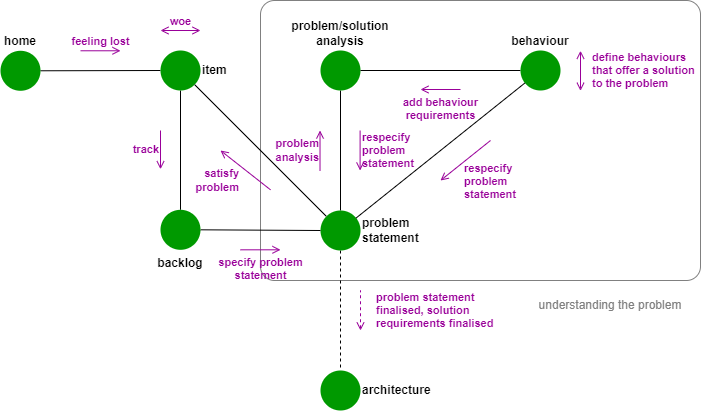
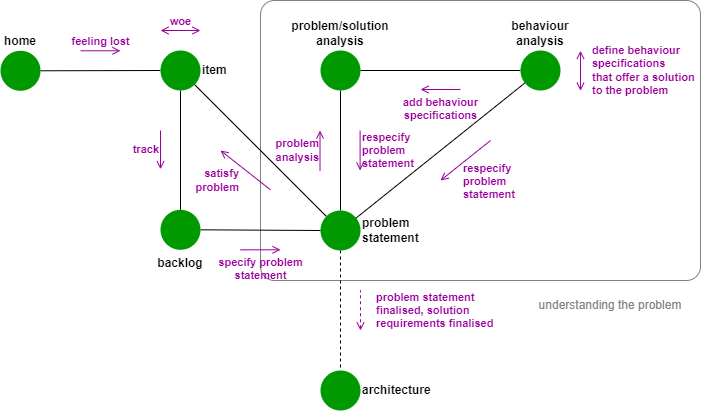
doc: specify behaviour analysis process

diff --git a/docs/searchindex.js b/docs/searchindex.js
@@ -1,1 +1,1 @@
-Search.setIndex({"docnames": ["index", "src/contributing", "src/contributing/authors", "src/contributing/changelog", "src/contributing/configuration", "src/contributing/contributing", "src/contributing/development", "src/contributing/installation", "src/contributing/license", "src/contributing/usage", "src/literature", "src/manifesto", "src/manifesto/manifesto", "src/pathos", "src/pathos/pathos"], "filenames": ["index.rst", "src/contributing.rst", "src/contributing/authors.rst", "src/contributing/changelog.rst", "src/contributing/configuration.rst", "src/contributing/contributing.rst", "src/contributing/development.rst", "src/contributing/installation.rst", "src/contributing/license.rst", "src/contributing/usage.rst", "src/literature.rst", "src/manifesto.rst", "src/manifesto/manifesto.rst", "src/pathos.rst", "src/pathos/pathos.rst"], "titles": ["Lifespline Agile", "Contributing", "Authors", "Changelog", "Configuration", "Contributing", "Development", "Installation", "License", "Usage", "Literature", "Manifesto", "The Manifesto", "Pathos", "Pathos"], "terms": {"i": [0, 2, 12, 14], "an": 0, "manifesto": 0, "aim": 0, "provid": [0, 12], "complet": [0, 12], "framework": [0, 12], "develop": [0, 1, 12], "conduct": 0, "its": 0, "life": 0, "contribut": 0, "patho": 0, "literatur": 0, "pleas": 1, "read": 1, "through": [1, 12], "section": 1, "below": 1, "understand": [1, 12], "how": [1, 3, 4, 5, 7, 9], "lifesplin": [1, 2, 12, 14], "agil": 1, "instal": 1, "configur": 1, "usag": 1, "changelog": 1, "licens": 1, "author": 1, "The": [2, 11], "project": [2, 8], "": [2, 8, 12], "organ": 2, "owner": 2, "diogobaltazar": 2, "increas": 3, "sampl": [3, 4, 5, 7, 9, 12], "todo": [3, 4, 5, 7, 8, 9, 12], "sphinx": 6, "src": 6, "static": 6, "index": 6, "rst": 6, "file": 6, "nojekyl": 6, "build": 6, "ar": [6, 12], "contain": 6, "img": 6, "about": [8, 12], "md": 8, "us": 9, "sequenti": 12, "iter": 12, "state": 12, "sleep": 12, "morn": 12, "prepar": 12, "even": 12, "start": 12, "envis": 12, "what": 12, "thi": 12, "can": 12, "achiev": 12, "consult": 12, "network": 12, "graph": 12, "context": 12, "detail": 12, "schedul": 12, "mileston": 12, "know": 12, "proce": 12, "full": 12, "focu": 12, "occur": 12, "subtask": 12, "0": 12, "8": 12, "them": 12, "must": 12, "log": 12, "so": 12, "thei": 12, "practic": 12, "upon": 12, "later": 12, "keep": 12, "track": 12, "ipad": 12, "note": 12, "prevent": 12, "loss": 12, "when": 12, "task": 12, "finish": 12, "you": 12, "structur": 12, "have": 12, "been": 12, "one": 12, "ha": 12, "new": 12, "commenc": 12, "befor": 12, "begin": 12, "step": 12, "veri": 12, "import": 12, "becaus": 12, "often": 12, "requir": 12, "specifi": 12, "suffici": 12, "order": 12, "tackl": 12, "item": 12, "add": 12, "which": 12, "seem": 12, "best": 12, "describ": 12, "without": 12, "ani": 12, "consider": 12, "might": 12, "solv": 12, "set": 12, "each": 12, "map": 12, "featur": 12, "satisfi": 12, "analys": 12, "within": 12, "possibl": 12, "we": 12, "assum": 12, "onli": 12, "whithin": 12, "output": 12, "discuss": 12, "defin": 12, "typic": 12, "translat": 12, "These": 12, "show": 12, "should": 12, "also": 12, "includ": 12, "verif": 12, "test": 12, "written": 12, "mid": 12, "level": 12, "languag": 12, "autom": 12, "purpos": 12, "aren": 12, "t": 12, "all": 12, "necessari": 12, "some": 12, "nice": 12, "crucial": 12, "identifi": 12, "closest": 12, "valu": 12, "throughput": 12, "alwai": 12, "high": 12, "re": 12, "specif": 12, "remov": 12, "move": 12, "don": 12, "user": 12, "stori": 12, "finalis": 12, "tecnhic": 12, "platform": 14, "monitor": 14, "both": 14, "resourc": 14, "process": 14, "perform": 14, "statu": 14}, "objects": {}, "objtypes": {}, "objnames": {}, "titleterms": {"lifesplin": 0, "agil": 0, "content": [0, 1, 11, 13], "contribut": [1, 5], "author": 2, "changelog": 3, "configur": 4, "develop": 6, "doc": 6, "structur": 6, "imag": 6, "task": 6, "runner": 6, "instal": 7, "licens": 8, "usag": 9, "literatur": 10, "manifesto": [11, 12], "The": 12, "main": 12, "flow": 12, "engag": 12, "version": 12, "control": 12, "reduc": 12, "from": 12, "imaginari": 12, "To": 12, "real": 12, "group": 12, "And": 12, "individu": 12, "product": 12, "variat": 12, "problem": 12, "analysi": 12, "backlog": 12, "statement": 12, "solut": 12, "behaviour": 12, "architectur": 12, "patho": [13, 14]}, "envversion": {"sphinx.domains.c": 2, "sphinx.domains.changeset": 1, "sphinx.domains.citation": 1, "sphinx.domains.cpp": 8, "sphinx.domains.index": 1, "sphinx.domains.javascript": 2, "sphinx.domains.math": 2, "sphinx.domains.python": 3, "sphinx.domains.rst": 2, "sphinx.domains.std": 2, "sphinx": 57}, "alltitles": {"Lifespline Agile": [[0, "lifespline-agile"]], "Contents:": [[0, null], [1, null], [11, null], [13, null]], "Contributing": [[1, "contributing"], [5, "contributing"]], "Authors": [[2, "authors"]], "Changelog": [[3, "changelog"]], "Configuration": [[4, "configuration"]], "Development": [[6, "development"]], "Docs Structure": [[6, "docs-structure"]], "Images": [[6, "images"]], "Task Runner": [[6, "task-runner"]], "Installation": [[7, "installation"]], "License": [[8, "license"]], "Usage": [[9, "usage"]], "Literature": [[10, "literature"]], "Manifesto": [[11, "manifesto"]], "The Manifesto": [[12, "the-manifesto"]], "Main Flow": [[12, "main-flow"]], "Engage Flow": [[12, "engage-flow"]], "Versioning and Control Flow": [[12, "versioning-and-control-flow"]], "Reducing From Imaginary To Real": [[12, "reducing-from-imaginary-to-real"]], "Group And Individual Productivity Variation": [[12, "group-and-individual-productivity-variation"]], "Problem Analysis Flow": [[12, "problem-analysis-flow"]], "Backlog": [[12, "id4"]], "Problem Statement": [[12, "problem-statement"]], "Problem/Solution Analysis": [[12, "problem-solution-analysis"]], "Behaviour": [[12, "behaviour"]], "Architecture": [[12, "architecture"]], "Pathos": [[13, "pathos"], [14, "pathos"]]}, "indexentries": {}})
+Search.setIndex({"docnames": ["index", "src/contributing", "src/contributing/authors", "src/contributing/changelog", "src/contributing/configuration", "src/contributing/contributing", "src/contributing/development", "src/contributing/installation", "src/contributing/license", "src/contributing/usage", "src/literature", "src/manifesto", "src/manifesto/manifesto", "src/pathos", "src/pathos/pathos"], "filenames": ["index.rst", "src/contributing.rst", "src/contributing/authors.rst", "src/contributing/changelog.rst", "src/contributing/configuration.rst", "src/contributing/contributing.rst", "src/contributing/development.rst", "src/contributing/installation.rst", "src/contributing/license.rst", "src/contributing/usage.rst", "src/literature.rst", "src/manifesto.rst", "src/manifesto/manifesto.rst", "src/pathos.rst", "src/pathos/pathos.rst"], "titles": ["Lifespline Agile", "Contributing", "Authors", "Changelog", "Configuration", "Contributing", "Development", "Installation", "License", "Usage", "Literature", "Manifesto", "The Manifesto", "Pathos", "Pathos"], "terms": {"i": [0, 2, 12, 14], "an": [0, 12], "manifesto": 0, "aim": 0, "provid": 0, "complet": [0, 12], "framework": [0, 12], "develop": [0, 1, 12], "conduct": 0, "its": 0, "life": 0, "contribut": 0, "patho": 0, "literatur": 0, "pleas": 1, "read": 1, "through": [1, 12], "section": 1, "below": 1, "understand": [1, 12], "how": [1, 3, 4, 5, 7, 9, 12], "lifesplin": [1, 2, 12, 14], "agil": 1, "instal": 1, "configur": 1, "usag": 1, "changelog": 1, "licens": 1, "author": 1, "The": [2, 11], "project": [2, 8], "": [2, 8, 12], "organ": 2, "owner": 2, "diogobaltazar": 2, "increas": 3, "sampl": [3, 4, 5, 7, 9, 12], "todo": [3, 4, 5, 7, 8, 9, 12], "sphinx": 6, "src": 6, "static": 6, "index": 6, "rst": 6, "file": 6, "nojekyl": 6, "build": 6, "ar": [6, 12], "contain": 6, "img": 6, "about": [8, 12], "md": 8, "us": 9, "sequenti": 12, "iter": 12, "state": 12, "sleep": 12, "morn": 12, "prepar": 12, "even": 12, "start": 12, "envis": 12, "what": 12, "thi": 12, "can": 12, "achiev": 12, "consult": 12, "network": 12, "graph": 12, "context": 12, "detail": 12, "schedul": 12, "mileston": 12, "know": 12, "proce": 12, "full": 12, "focu": 12, "occur": 12, "subtask": 12, "0": 12, "8": 12, "them": 12, "must": 12, "log": 12, "so": 12, "thei": 12, "practic": 12, "upon": 12, "later": 12, "keep": 12, "track": 12, "ipad": 12, "note": 12, "prevent": 12, "loss": 12, "when": 12, "task": 12, "finish": 12, "you": 12, "structur": 12, "have": 12, "been": 12, "one": 12, "ha": 12, "new": 12, "commenc": 12, "befor": 12, "begin": 12, "step": 12, "veri": 12, "import": 12, "becaus": 12, "often": 12, "requir": 12, "specifi": 12, "suffici": 12, "order": 12, "tackl": 12, "item": 12, "add": 12, "which": 12, "seem": 12, "best": 12, "describ": 12, "without": 12, "ani": 12, "consider": 12, "might": 12, "solv": 12, "set": 12, "each": 12, "map": 12, "featur": 12, "satisfi": 12, "If": 12, "consist": 12, "multipl": 12, "some": 12, "underli": 12, "analyz": 12, "within": 12, "possibl": 12, "all": 12, "we": 12, "assum": 12, "onli": 12, "output": 12, "gener": 12, "1": 12, "m": 12, "It": 12, "try": 12, "discuss": 12, "treat": 12, "instanti": 12, "NOT": 12, "technic": 12, "mere": 12, "conceptu": 12, "exist": 12, "level": 12, "e": 12, "g": 12, "concept": 12, "render": 12, "pyhon": 12, "lib": 12, "jupyt": 12, "notebook": 12, "With": 12, "spec": 12, "n": 12, "p": 12, "specif": 12, "correspond": 12, "verif": 12, "test": 12, "should": 12, "written": 12, "mid": 12, "languag": 12, "autom": 12, "purpos": 12, "typic": 12, "aren": 12, "t": 12, "necessari": 12, "crucial": 12, "identifi": 12, "closest": 12, "valu": 12, "throughput": 12, "alwai": 12, "high": 12, "unnecessari": 12, "point": 12, "time": 12, "user": 12, "stori": 12, "think": 12, "implement": 12, "overal": 12, "ensur": 12, "chang": 12, "dramat": 12, "unforeseen": 12, "howev": 12, "bound": 12, "happen": 12, "re": 12, "minim": 12, "impact": 12, "final": 12, "analys": 12, "tecnhic": 12, "finalis": 12, "platform": 14, "monitor": 14, "both": 14, "resourc": 14, "process": 14, "perform": 14, "statu": 14}, "objects": {}, "objtypes": {}, "objnames": {}, "titleterms": {"lifesplin": 0, "agil": 0, "content": [0, 1, 11, 13], "contribut": [1, 5], "author": 2, "changelog": 3, "configur": 4, "develop": 6, "doc": 6, "structur": 6, "imag": 6, "task": 6, "runner": 6, "instal": 7, "licens": 8, "usag": 9, "literatur": 10, "manifesto": [11, 12], "The": 12, "main": 12, "flow": 12, "engag": 12, "version": 12, "control": 12, "reduc": 12, "from": 12, "imaginari": 12, "To": 12, "real": 12, "group": 12, "And": 12, "individu": 12, "product": 12, "variat": 12, "problem": 12, "analysi": 12, "backlog": 12, "statement": 12, "solut": 12, "behaviour": 12, "architectur": 12, "patho": [13, 14]}, "envversion": {"sphinx.domains.c": 2, "sphinx.domains.changeset": 1, "sphinx.domains.citation": 1, "sphinx.domains.cpp": 8, "sphinx.domains.index": 1, "sphinx.domains.javascript": 2, "sphinx.domains.math": 2, "sphinx.domains.python": 3, "sphinx.domains.rst": 2, "sphinx.domains.std": 2, "sphinx": 57}, "alltitles": {"Lifespline Agile": [[0, "lifespline-agile"]], "Contents:": [[0, null], [1, null], [11, null], [13, null]], "Contributing": [[1, "contributing"], [5, "contributing"]], "Authors": [[2, "authors"]], "Changelog": [[3, "changelog"]], "Configuration": [[4, "configuration"]], "Development": [[6, "development"]], "Docs Structure": [[6, "docs-structure"]], "Images": [[6, "images"]], "Task Runner": [[6, "task-runner"]], "Installation": [[7, "installation"]], "License": [[8, "license"]], "Usage": [[9, "usage"]], "Literature": [[10, "literature"]], "Manifesto": [[11, "manifesto"]], "The Manifesto": [[12, "the-manifesto"]], "Main Flow": [[12, "main-flow"]], "Engage Flow": [[12, "engage-flow"]], "Versioning and Control Flow": [[12, "versioning-and-control-flow"]], "Reducing From Imaginary To Real": [[12, "reducing-from-imaginary-to-real"]], "Group And Individual Productivity Variation": [[12, "group-and-individual-productivity-variation"]], "Problem Analysis Flow": [[12, "problem-analysis-flow"]], "Backlog": [[12, "id4"]], "Problem Statement": [[12, "problem-statement"]], "Problem/Solution Analysis": [[12, "problem-solution-analysis"]], "Behaviour": [[12, "behaviour"]], "Architecture": [[12, "architecture"]], "Pathos": [[13, "pathos"], [14, "pathos"]]}, "indexentries": {}})

diff --git a/docs/src/manifesto/manifesto.html b/docs/src/manifesto/manifesto.html
@@ -250,14 +250,47 @@
 </section>
 <section id="problem-solution-analysis">
 <span id="prob-analysis"></span><h3>Problem/Solution Analysis<a class="headerlink" href="#problem-solution-analysis" title="Permalink to this heading">#</a></h3>
-<p>Analyse the problem from within the framework of a possible solution (we assume <strong>a problem can only be analysed from whithin the framework of a possible solution</strong>). The analysis outputs problem statement behaviours that satisfy the problem statements.</p>
+<p>If the <a class="reference internal" href="#prob-statement"><span class="std std-ref">problem statement</span></a> consists of multiple problem statements, <strong>there is some underlying problem that can be analyzed from within the framework of a possible solution to all the problem statements</strong> (we assume a problem can only be analyzed from within the framework of a possible solution). The analysis outputs a generic solution that will satisfy all the problem statement.</p>
+<div class="highlight-rst notranslate"><div class="highlight"><pre><span></span>Problem Statement
+┣╸ &lt;Problem Statement 1&gt;
+┣╸ ...
+┗╸ &lt;Problem Statement M&gt;
+</pre></div>
+</div>
+<div class="admonition note">
+<p class="admonition-title">Note</p>
+<p>It’s important to try to discuss a solution to all the problem statements so that each problem statement is treated as an instantiation of a generic problem.</p>
+</div>
+<div class="admonition note">
+<p class="admonition-title">Note</p>
+<p>The solution <strong>MUST NOT</strong> be technical but merely conceptual. The problem statement exists only in the conceptual level (e.g.: a network graph to map a backlog is a concept, rendering the network graph with a pyhon lib in a jupyter notebook is a technical detail).</p>
+</div>
 </section>
 <section id="behaviour">
 <span id="id6"></span><h3>Behaviour<a class="headerlink" href="#behaviour" title="Permalink to this heading">#</a></h3>
-<p>Discuss what defines a behaviour that provides a solution to the <a class="reference internal" href="#prob-statement"><span class="std std-ref">problem statements</span></a>. This typically requires that the problem statement translates to <strong>behaviour requirements</strong> in the <a class="reference internal" href="#prob-analysis"><span class="std std-ref">problem analysis</span></a>. These requirements are <strong>behaviours</strong> that the solution must show. The requirements should also include <strong>behaviour verification tests</strong>. The behaviours and the behaviour verification tests should be written in a mid-level language for automation purposes.</p>
-<p>Typically the behaviours aren’t all necessary, some of them are nice-to-haves, it’s crucial to identify which behaviours are closest to the problem statement so that the <strong>value throughput</strong> is always high.</p>
-<p>When you’re specifying the problem statements behaviours, iterate through the specification and remove/move behaviours that don’t map to the problem statement specifically. Each problem statement maps to a <code class="docutils literal notranslate"><span class="pre">product</span> <span class="pre">feature</span></code> and each behaviour maps to a <code class="docutils literal notranslate"><span class="pre">product</span> <span class="pre">feature</span> <span class="pre">behaviour</span></code> or a <code class="docutils literal notranslate"><span class="pre">user</span> <span class="pre">story</span></code>.</p>
-<p>Having finalised all the problem statements’ behaviours it is possible to analyse the <a class="reference internal" href="#architecture"><span class="std std-ref">architecture for a tecnhical solution</span></a>.</p>
+<p>With the conceptual solution from the <a class="reference internal" href="#prob-analysis"><span class="std std-ref">problem analysis</span></a>, specify the behaviours that will satisfy each problem statement.</p>
+<div class="highlight-rst notranslate"><div class="highlight"><pre><span></span>Behaviours: &lt;Problem Statement 1&gt;
+┣╸ BEHAVIOUR 1: SPEC
+┣╸ ...
+┗╸ BEHAVIOUR N: SPEC
+
+<span class="cp">...</span>
+
+Behaviours: &lt;Problem Statement M&gt;
+┣╸ BEHAVIOUR 1: SPEC
+┣╸ ...
+┗╸ BEHAVIOUR P: SPEC
+</pre></div>
+</div>
+<p>The problem statement maps to <strong>behaviour specifications</strong> and the corresponding <strong>behaviour verification tests</strong>. The behaviours and the behaviour verification tests should be written in a mid-level language for automation purposes.</p>
+<p>Typically the behaviour specifications aren’t all necessary, it’s crucial to identify which behaviours are closest to the problem statement so that the <strong>value throughput</strong> is always high. Add the unnecessary behaviour specs to tackle them at a later point in time.</p>
+<p>Each problem statement maps to a <code class="docutils literal notranslate"><span class="pre">product</span> <span class="pre">feature</span></code> and each behaviour maps to a <code class="docutils literal notranslate"><span class="pre">product</span> <span class="pre">feature</span> <span class="pre">behaviour</span></code> or a <code class="docutils literal notranslate"><span class="pre">user</span> <span class="pre">story</span></code>.</p>
+<div class="admonition note">
+<p class="admonition-title">Note</p>
+<p>It’s important to finish the behaviour specification for all the problem statements before starting to think of how to implement the overall solution to ensure the solution will not have to be changed dramatically to satisfy a an unforeseen behaviour specification.</p>
+<p>Because this is however bound to happen, we’re trying to minimize it’s impact on the value throughput.</p>
+</div>
+<p>Having finalized all the problem statements’ behaviours it is possible to analyse the <a class="reference internal" href="#architecture"><span class="std std-ref">architecture for a tecnhical solution</span></a>.</p>
 </section>
 <section id="architecture">
 <span id="id7"></span><h3>Architecture<a class="headerlink" href="#architecture" title="Permalink to this heading">#</a></h3>

diff --git a/docs/sphinx/src/manifesto/manifesto.rst b/docs/sphinx/src/manifesto/manifesto.rst
@@ -89,20 +89,57 @@ Add problem statement, or *that which seems to best describe* the ``item``, with
 Problem/Solution Analysis
 ~~~~~~~~~~~~~~~~~~~~~~~~~
 
-Analyse the problem from within the framework of a possible solution (we assume **a problem can only be analysed from whithin the framework of a possible solution**). The analysis outputs problem statement behaviours that satisfy the problem statements.
+If the :ref:`problem statement <prob_statement>` consists of multiple problem statements, **there is some underlying problem that can be analyzed from within the framework of a possible solution to all the problem statements** (we assume a problem can only be analyzed from within the framework of a possible solution). The analysis outputs a generic solution that will satisfy all the problem statement.
+
+.. code-block:: rst
+
+   Problem Statement
+   ┣╸ <Problem Statement 1>
+   ┣╸ ...
+   ┗╸ <Problem Statement M>
+
+.. note::
+
+    It's important to try to discuss a solution to all the problem statements so that each problem statement is treated as an instantiation of a generic problem.
+
+.. note::
+
+    The solution **MUST NOT** be technical but merely conceptual. The problem statement exists only in the conceptual level (e.g.: a network graph to map a backlog is a concept, rendering the network graph with a pyhon lib in a jupyter notebook is a technical detail).
 
 .. _behaviour:
 
 Behaviour
 ~~~~~~~~~
 
-Discuss what defines a behaviour that provides a solution to the :ref:`problem statements <prob_statement>`. This typically requires that the problem statement translates to **behaviour requirements** in the :ref:`problem analysis <prob_analysis>`. These requirements are **behaviours** that the solution must show. The requirements should also include **behaviour verification tests**. The behaviours and the behaviour verification tests should be written in a mid-level language for automation purposes.
+With the conceptual solution from the :ref:`problem analysis <prob_analysis>`, specify the behaviours that will satisfy each problem statement.
 
-Typically the behaviours aren't all necessary, some of them are nice-to-haves, it's crucial to identify which behaviours are closest to the problem statement so that the **value throughput** is always high.
+.. code-block:: rst
 
-When you're specifying the problem statements behaviours, iterate through the specification and remove/move behaviours that don't map to the problem statement specifically. Each problem statement maps to a ``product feature`` and each behaviour maps to a ``product feature behaviour`` or a ``user story``.
+   Behaviours: <Problem Statement 1>
+   ┣╸ BEHAVIOUR 1: SPEC
+   ┣╸ ...
+   ┗╸ BEHAVIOUR N: SPEC
 
-Having finalised all the problem statements' behaviours it is possible to analyse the :ref:`architecture for a tecnhical solution <architecture>`.
+   ...
+
+   Behaviours: <Problem Statement M>
+   ┣╸ BEHAVIOUR 1: SPEC
+   ┣╸ ...
+   ┗╸ BEHAVIOUR P: SPEC
+
+The problem statement maps to **behaviour specifications** and the corresponding **behaviour verification tests**. The behaviours and the behaviour verification tests should be written in a mid-level language for automation purposes.
+
+Typically the behaviour specifications aren't all necessary, it's crucial to identify which behaviours are closest to the problem statement so that the **value throughput** is always high. Add the unnecessary behaviour specs to tackle them at a later point in time.
+
+Each problem statement maps to a ``product feature`` and each behaviour maps to a ``product feature behaviour`` or a ``user story``.
+
+.. note::
+
+    It's important to finish the behaviour specification for all the problem statements before starting to think of how to implement the overall solution to ensure the solution will not have to be changed dramatically to satisfy a an unforeseen behaviour specification.
+    
+    Because this is however bound to happen, we're trying to minimize it's impact on the value throughput.
+
+Having finalized all the problem statements' behaviours it is possible to analyse the :ref:`architecture for a tecnhical solution <architecture>`.
 
 .. _architecture:
 
